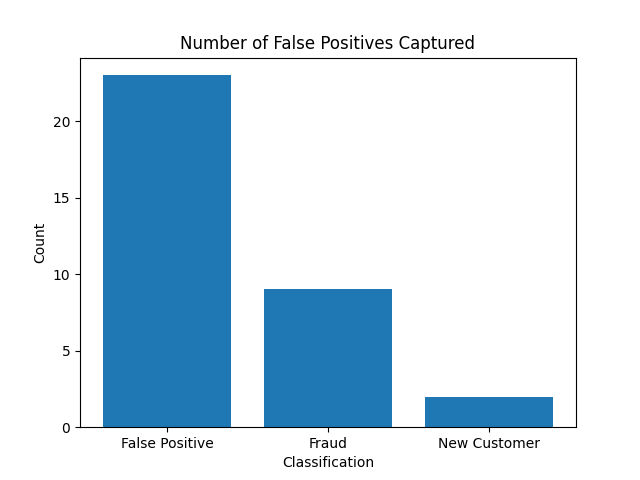
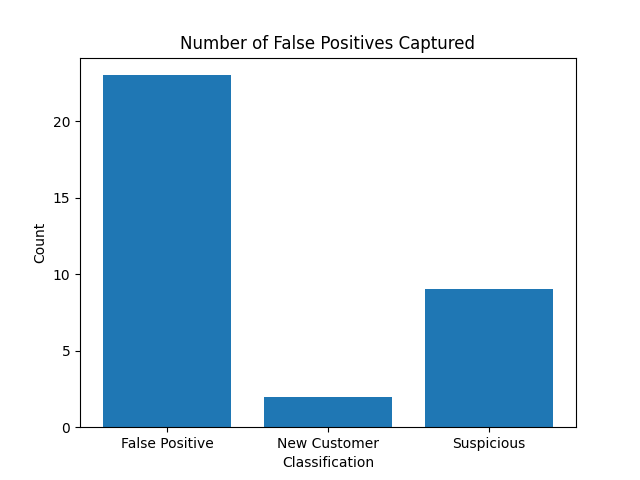
Keyword Fraud replaced to Suspicious

diff --git a/CFD_EE/AI_Fraud_Detection/templates/AI_Fraud_Detection/index.html b/CFD_EE/AI_Fraud_Detection/templates/AI_Fraud_Detection/index.html
@@ -9,7 +9,7 @@
   <meta name="description" content="">
   <meta name="author" content="">
 
-  <title>Fraud Detection using AI</title>
+  <title>Suspicious Detection using AI</title>
 
   <!-- Bootstrap core CSS -->
   <link href="{% static 'AI_Fraud_Detection/vendor/bootstrap/css/bootstrap.min.css' %}" rel="stylesheet">
@@ -31,12 +31,12 @@
           <ul class="navbar-nav ml-auto"> 
             <li class="nav-item dropdown">
               <a class="nav-link dropdown-toggle" href="#" id="navbarDropdownPortfolio" data-toggle="dropdown" aria-haspopup="true" aria-expanded="false">
-                Fraud Detection
+                Suspicious Detection
               </a>
               <div class="dropdown-menu dropdown-menu-right" aria-labelledby="navbarDropdownPortfolio">
-                <a class="dropdown-item" href="{% url 'classify' %}">Customer Fraud Detection</a>
+                <a class="dropdown-item" href="{% url 'classify' %}">Customer Suspicious Detection</a>
                 <a class="dropdown-item" href="{% url 'lookup' %}">Customer Single Lookup</a>
-                <a class="dropdown-item" href="#">Payment Fraud Detection</a>
+                <a class="dropdown-item" href="#">Payment Suspicious Detection</a>
                 <a class="dropdown-item" href="#">Payment Single Lookup</a>                
               </div>
             </li>
@@ -108,7 +108,7 @@
     <!-- Page Content -->
     <div class="container">
 
-    <h1 class="my-4">Artificial Intelligence in Fraud Detection</h1>
+    <h1 class="my-4">Artificial Intelligence in Suspicious Detection</h1>
 
     
       <!-- Portfolio Section -->
@@ -120,7 +120,7 @@
           <a href="{% url 'classify' %}"><img class="card-img-top" src="/media/customer.png" alt="" width="300" height="300"></a>
           <div class="card-body">
             <h4 class="card-title">
-              <a href="{% url 'classify' %}">Customer Fraud Detection</a>
+              <a href="{% url 'classify' %}">Customer Suspicious Detection</a>
             </h4>
             <p class="card-text">A batch solution to reduce the numbers of false positive alerts.</p>
           </div>
@@ -142,7 +142,7 @@
           <a href="#"><img class="card-img-top" src="/media/payment.png" alt="" width="300" height="300"></a>
           <div class="card-body">
             <h4 class="card-title">
-              <a href="#">Payment Fraud Detection</a>
+              <a href="#">Payment Suspicious Detection</a>
             </h4>
             <p class="card-text">A batch solution to reduce the numbers of false positive alerts.</p>
           </div>

diff --git a/CFD_EE/AI_Fraud_Detection/templates/AI_Fraud_Detection/base2.html b/CFD_EE/AI_Fraud_Detection/templates/AI_Fraud_Detection/base2.html
@@ -8,7 +8,7 @@
     <meta name="description" content="">
     <meta name="author" content="">
   
-    <title>Fraud Detection using AI</title>
+    <title>Suspicious Detection using AI</title>
   
     <!-- Bootstrap core CSS -->
     <link href="{% static 'AI_Fraud_Detection/vendor/bootstrap/css/bootstrap.min.css' %}" rel="stylesheet">
@@ -29,12 +29,12 @@
           <ul class="navbar-nav ml-auto"> 
             <li class="nav-item dropdown">
               <a class="nav-link dropdown-toggle" href="#" id="navbarDropdownPortfolio" data-toggle="dropdown" aria-haspopup="true" aria-expanded="false">
-                Fraud Detection
+                Suspicious Detection
               </a>
               <div class="dropdown-menu dropdown-menu-right" aria-labelledby="navbarDropdownPortfolio">
-                <a class="dropdown-item" href="{% url 'classify' %}">Customer Fraud Detection</a>
+                <a class="dropdown-item" href="{% url 'classify' %}">Customer Suspicious Detection</a>
                 <a class="dropdown-item" href="{% url 'lookup' %}">Customer Single Lookup</a>
-                <a class="dropdown-item" href="#">Payment Fraud Detection</a>
+                <a class="dropdown-item" href="#">Payment Suspicious Detection</a>
                 <a class="dropdown-item" href="#">Payment Single Lookup</a>                
               </div>
             </li>

diff --git a/CFD_EE/AI_Fraud_Detection/templates/AI_Fraud_Detection/base1.html b/CFD_EE/AI_Fraud_Detection/templates/AI_Fraud_Detection/base1.html
@@ -8,7 +8,7 @@
     <meta name="description" content="">
     <meta name="author" content="">
   
-    <title>Fraud Detection</title>
+    <title>Suspicious Detection</title>
   
     <!-- Bootstrap core CSS -->
     <link href="{% static 'AI_Fraud_Detection/vendor/bootstrap/css/bootstrap.min.css' %}" rel="stylesheet">
@@ -29,12 +29,12 @@
           <ul class="navbar-nav ml-auto"> 
             <li class="nav-item dropdown">
               <a class="nav-link dropdown-toggle" href="#" id="navbarDropdownPortfolio" data-toggle="dropdown" aria-haspopup="true" aria-expanded="false">
-                Fraud Detection
+                Suspicious Detection
               </a>
               <div class="dropdown-menu dropdown-menu-right" aria-labelledby="navbarDropdownPortfolio">
-                <a class="dropdown-item" href="{% url 'classify' %}">Customer Fraud Detection</a>
+                <a class="dropdown-item" href="{% url 'classify' %}">Customer Suspicious Detection</a>
                 <a class="dropdown-item" href="{% url 'lookup' %}">Customer Single Lookup</a>
-                <a class="dropdown-item" href="#">Payment Fraud Detection</a>
+                <a class="dropdown-item" href="#">Payment Suspicious Detection</a>
                 <a class="dropdown-item" href="#">Payment Single Lookup</a>                
               </div>
             </li>

diff --git a/CFD_EE/CFD_ML/algo.py b/CFD_EE/CFD_ML/algo.py
@@ -61,7 +61,7 @@ class CustomerFraudDetection:
         if input_data[1] == 0:
             label = 'False Positive'
         else :
-            label = 'Fraud'
+            label = 'Suspicious'
         return {"probability": input_data[1], "label": label, "status": "OK"}
             
     def compute_prediction(self):
